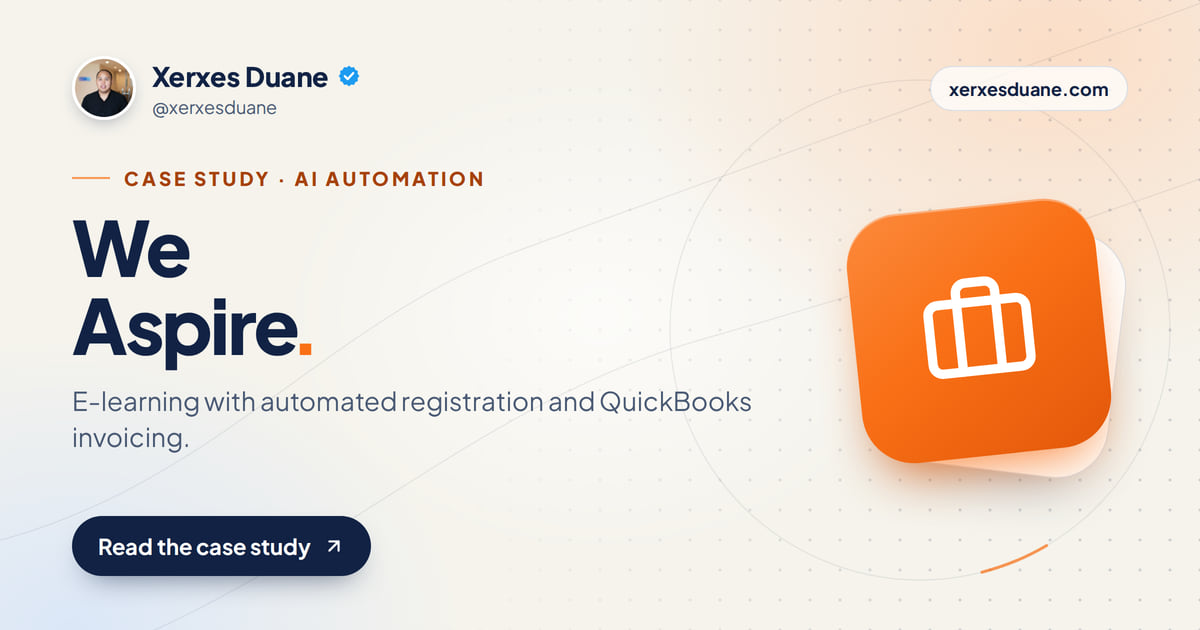
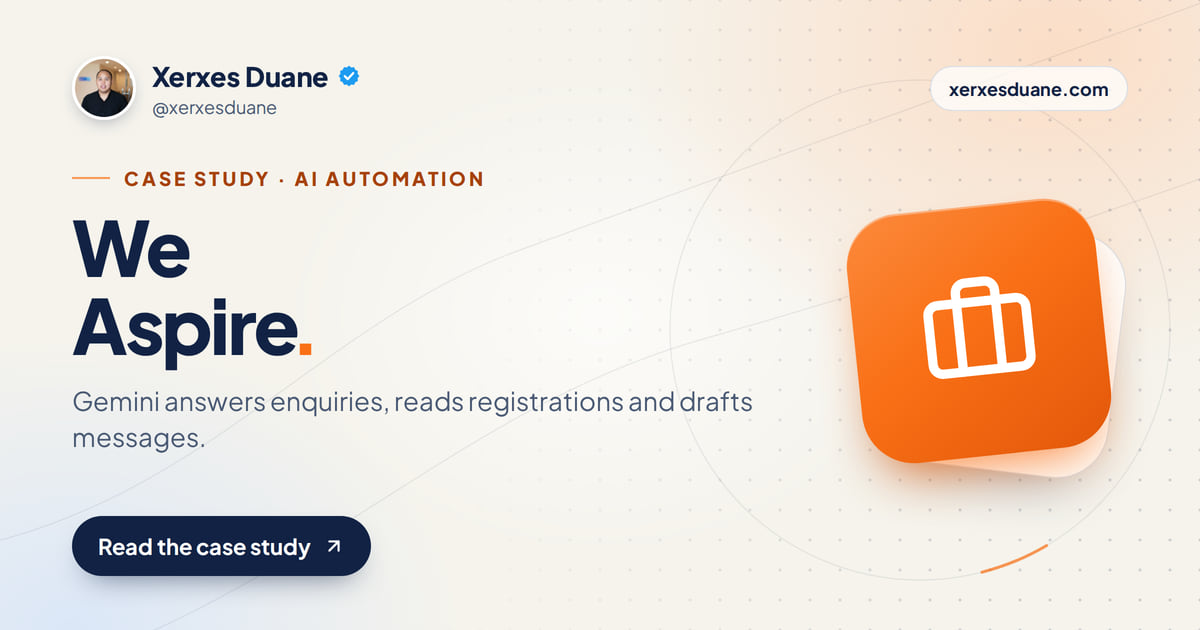
We Aspire case study: Gemini AI details
Adds the AI details the owner confirmed on 9 Oct 2026: Google Gemini answers
course and registration enquiries, reads registration details, drafts
learner messages and helps produce course content; a no-code automation
platform (not named, as which one was not specified) joins registration,
the AI steps and QuickBooks invoicing. No outcome yet. New share card, so
OG_IMAGE_VERSION is bumped.

Claude-Session: https://claude.ai/code/session_01J4BMNAVeyfMRXf7zEAakke

Changed region(s): [[0.0617, 0.6032, 0.6475, 0.7238]]

diff --git a/src/data/content.ts b/src/data/content.ts
@@ -427,7 +427,11 @@ export const CASE_STUDIES: CaseStudy[] = [
       "An online store for assistive products, with payments, orders, stock and customer records working together.",
   },
   {
-    // Scope-only, like Blocktec: everything here is already stated elsewhere on
+    // AI details (Gemini; enquiries, registrations, messages, course content;
+    // a no-code automation platform joining it up) confirmed by the owner,
+    // 9 Oct 2026. Which platform (Zapier, Make or n8n) was not specified, so it
+    // is not named. Originally scope-only, like Blocktec: everything here was
+    // already stated elsewhere on
     // the site (the industries list and the portfolio) or confirmed by the
     // owner (that the build uses AI). No outcomes, timeline or tool names yet;
     // they belong in `outcomes` once confirmed. See docs/case-study-briefs.md.
@@ -436,28 +440,33 @@ export const CASE_STUDIES: CaseStudy[] = [
     location: "Dubai · Education & Training",
     category: "AI Automation",
     metaDescription:
-      "AI automation for We Aspire, a Dubai education and training business: an e-learning platform with automated registration and QuickBooks-integrated invoicing.",
+      "Gemini-powered automation for We Aspire, a Dubai training business: AI answers enquiries, reads registrations and drafts messages, with QuickBooks invoicing.",
     challenge:
       "An education and training business in Dubai needed its courses delivered online, with learner registration and invoicing handled by the system rather than by hand.",
     summary:
-      "An e-learning platform with automated registration and invoicing connected to QuickBooks, with AI built into the workflow.",
+      "An e-learning platform where Google Gemini answers enquiries, reads registrations, drafts learner messages and helps produce course content, joined to registration and QuickBooks invoicing through a no-code automation platform.",
     approach: [
       "Built a custom e-learning platform for the courses",
-      "Automated learner registration",
-      "Integrated invoicing with QuickBooks",
-      "Built AI into the workflow",
+      "Set up an AI assistant, on Google Gemini, that answers course and registration enquiries",
+      "Used Gemini to read registration details into the system",
+      "Set up Gemini to draft welcome, reminder and follow-up messages for learners",
+      "Used Gemini to help produce course material such as quizzes and summaries",
+      "Connected registration, the AI steps and QuickBooks invoicing with a no-code automation platform",
     ],
     relatedServices: ["ai-automation-dubai", "custom-software-development-dubai", "web-development-dubai"],
     image: "/work/web/web-01-thumb.webp",
     scope: [
       "E-learning platform",
-      "Automated registration",
+      "Google Gemini enquiry assistant",
+      "AI-read registrations",
+      "AI-drafted learner messages",
+      "AI-assisted course content",
       "QuickBooks-integrated invoicing",
-      "AI-assisted workflow",
+      "No-code automation workflows",
     ],
     url: "https://www.weaspire.ae/",
     takeaway:
-      "Courses online, with registration and QuickBooks invoicing automated and AI in the workflow.",
+      "Enquiries, registrations, learner messages and invoicing handled by one Gemini-powered workflow.",
   },
   {
     slug: "blocktec-odoo-erp",

diff --git a/src/data/servicePages.ts b/src/data/servicePages.ts
@@ -352,7 +352,7 @@ export const SERVICE_PAGES: ServicePageData[] = [
         { label: "Who it's for", value: "Owners and small teams losing hours to repetitive admin, or losing leads because nobody replies fast enough." },
         { label: "What you get", value: "Mapped workflows, the automation built and connected to your existing tools, a hand-off to a person for edge cases, and maintenance after launch." },
         { label: "Starting price", value: `${cap(from("ai-automation-dubai"))} per project. ${NONPROFIT.label} for registered charities.` },
-        { label: "Proof", value: "We Aspire: an e-learning platform with automated registration, QuickBooks-integrated invoicing and AI in the workflow." },
+        { label: "Proof", value: "We Aspire: Google Gemini answers enquiries, reads registrations and drafts learner messages, joined to QuickBooks invoicing with a no-code automation platform." },
         { label: "Try it first", value: "The AI Lab has working tools you can test without signing up." },
         { label: "Next step", value: "A free 60-minute audit maps your workflows and picks the highest-impact, lowest-risk step to automate first." },
       ],

diff --git a/src/lib/seo.ts b/src/lib/seo.ts
@@ -63,7 +63,7 @@ const DEFAULT_OG_IMAGE = ogCard("home");
  * OG image by URL for weeks, so a versioned query string forces them to fetch
  * the current image instead of serving a stale (or wrong) cached one.
  */
-const OG_IMAGE_VERSION = "11";
+const OG_IMAGE_VERSION = "12";
 
 /** Absolute, cache-busted share-image URL for a page. */
 function ogImageUrl(image?: string): string {

diff --git a/docs/case-study-briefs.md b/docs/case-study-briefs.md
@@ -53,13 +53,17 @@ identity, sales-process organisation).
 
 ---
 
-## 3. AI automation: We Aspire (published 9 Oct 2026, scope only)
+## 3. AI automation: We Aspire (updated 9 Oct 2026, outcome still open)
 
-**Published** at `/case-studies/we-aspire-ai-automation` from the facts already
-on the site (e-learning platform, automated registration, QuickBooks-integrated
-invoicing) plus the owner's confirmation that AI is part of the workflow. It
-says nothing about *what* the AI does, which tools are used, timing or results,
-because none of that is confirmed yet. Answer the questions below to complete it.
+**Public** at `/case-studies/we-aspire-ai-automation`, confirmed by the owner:
+e-learning platform; Google Gemini answers course and registration enquiries,
+reads registration details, drafts learner messages and helps produce course
+content; a no-code automation platform (Zapier, Make or n8n, not specified)
+joins registration, the AI steps and QuickBooks invoicing.
+
+**Still to confirm:** which automation platform; what still goes to a person;
+one outcome We Aspire agrees with (time saved, response time); the channel the
+assistant runs on (website chat, WhatsApp); OK to name them.
 
 Candidates considered:
 
